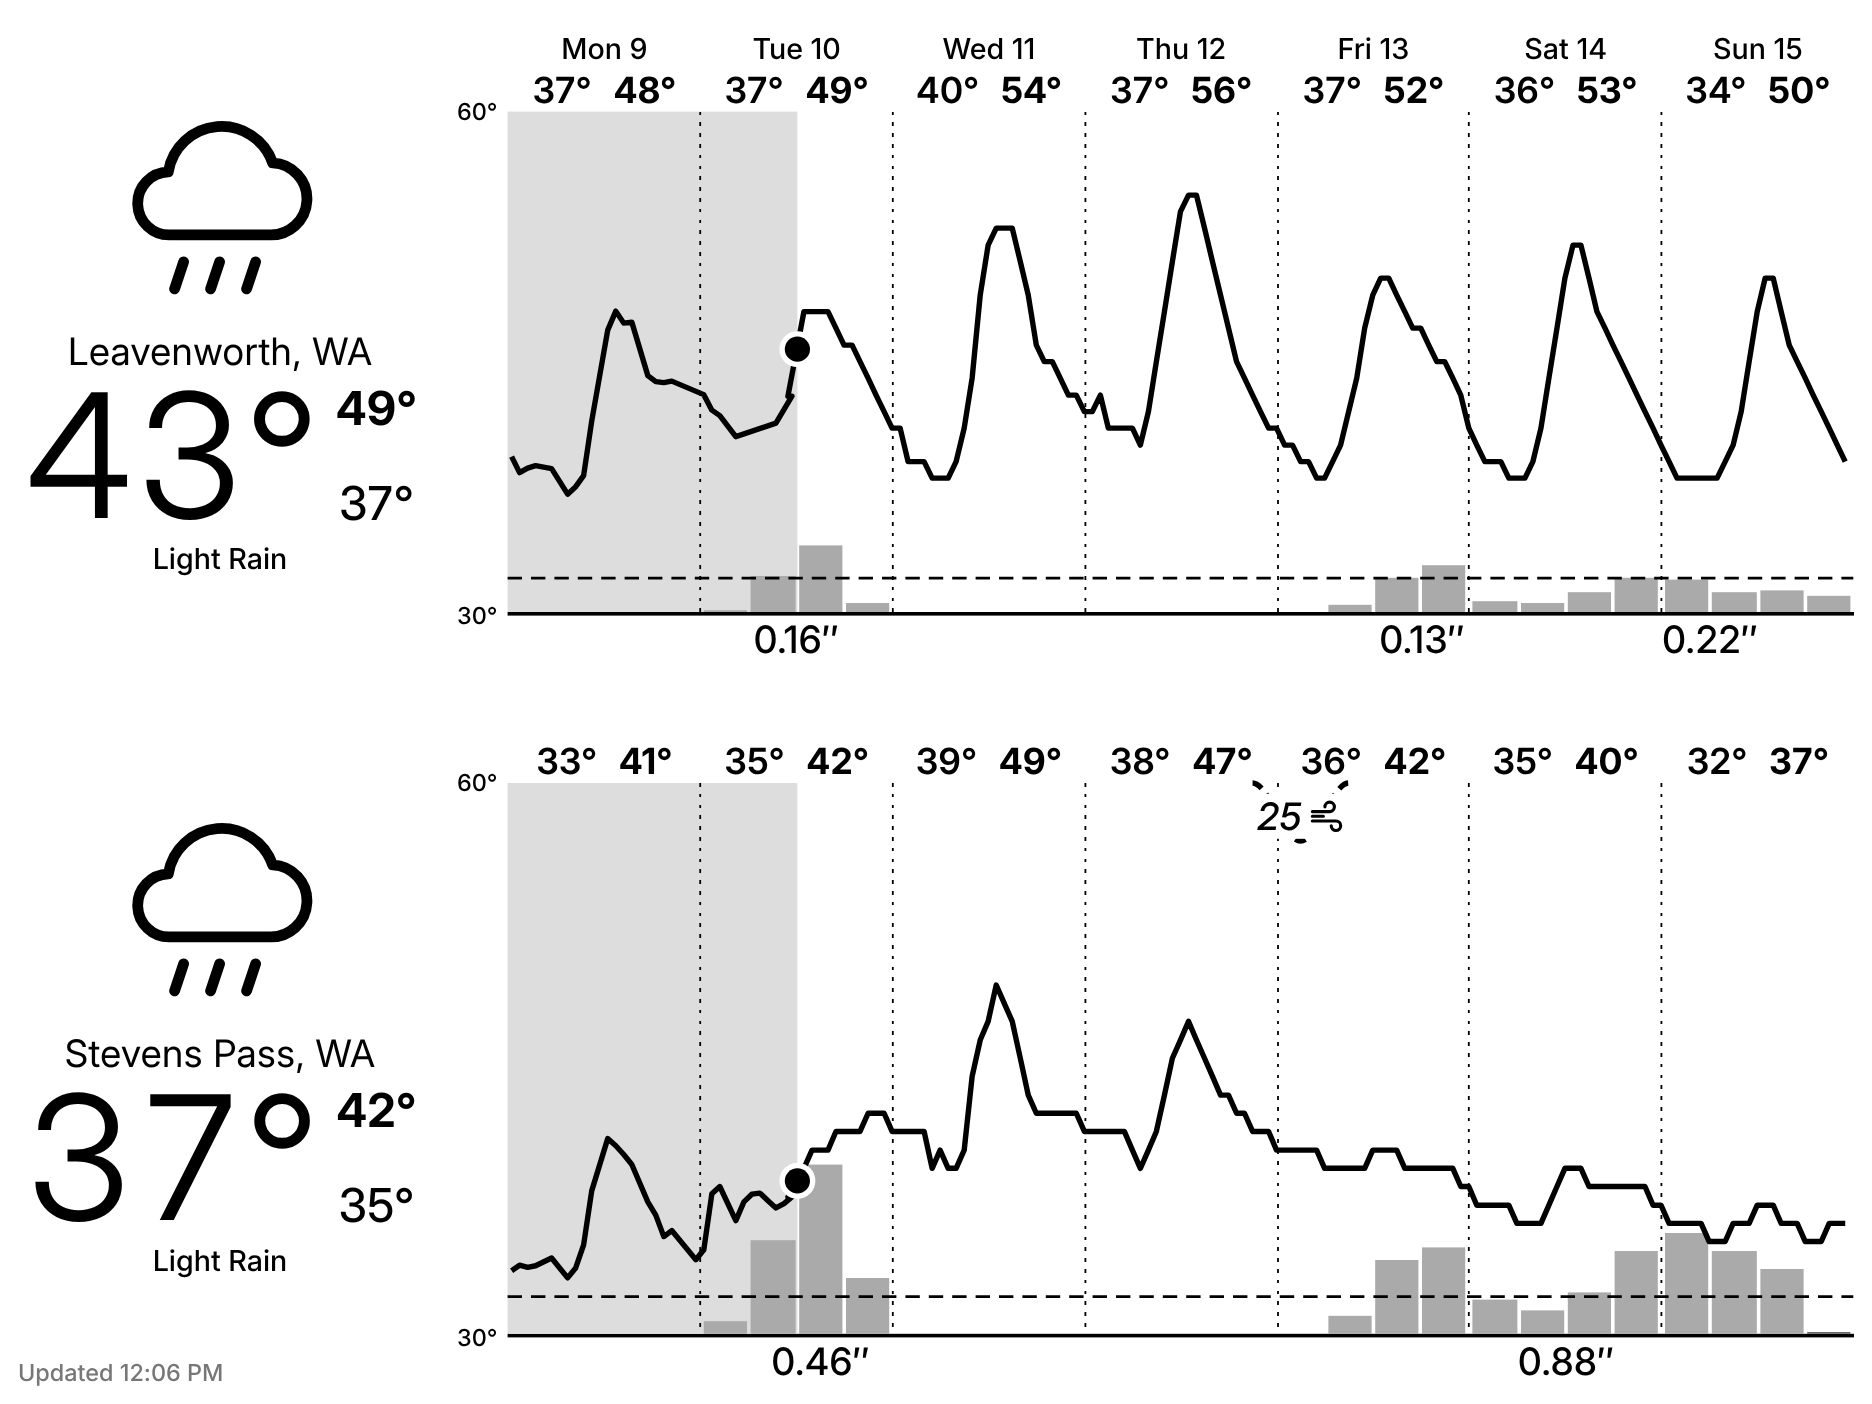
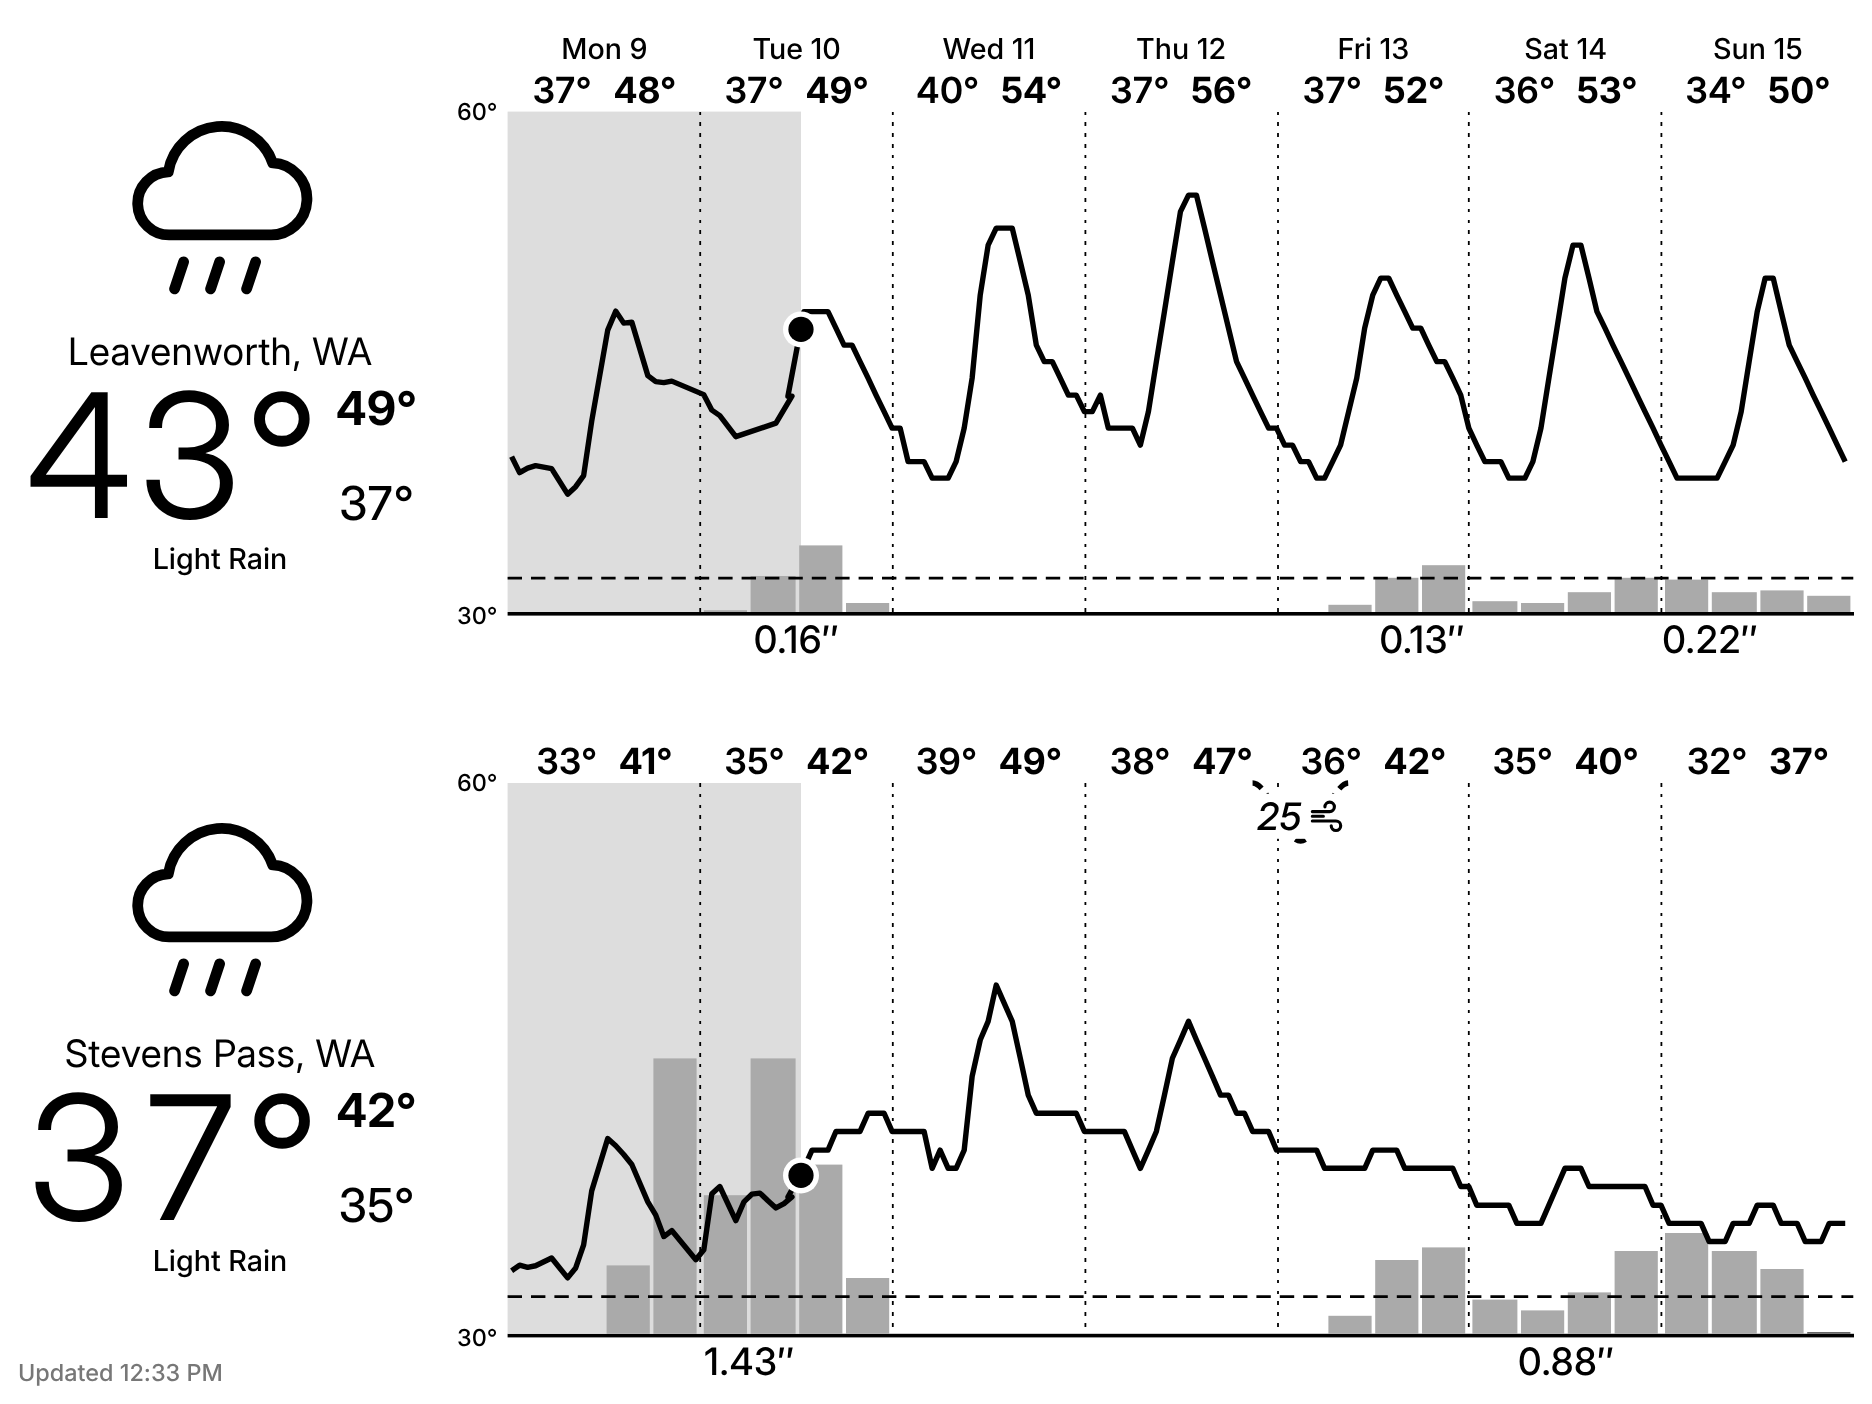
Measure rain and snow with NRCS SNOTEL
USDA's open AWDB service has hourly precipitation and snow depth for SNOTEL
sites, including Stevens Pass (site 791). Sites within 10 miles feed the
measured rain and snow bars and the fresh-snow totals; precipitation comes
from the water year's running total, with short gaps bridged.

Claude-Session: https://claude.ai/code/session_018zBtTfGxqR6ysBZYHYeVbJ

Changed region(s): [[0.3098, 0.735, 0.4647, 0.9801], [0.4028, 0.2144, 0.4338, 0.2756]]

diff --git a/server/forecast/glance_test.go b/server/forecast/glance_test.go
@@ -121,6 +121,10 @@ func fakeNWS(t *testing.T, dropPeriods int, withStations bool) *httptest.Server 
 				id = "LVN11" // the API's copy of every other station stopped on Oct 22
 			}
 			v = read("obs_" + id + ".json")
+		case r.URL.Path == "/snotel/stations":
+			v2 := []any{} // no SNOTEL station near Leavenworth
+			json.NewEncoder(w).Encode(v2)
+			return
 		case r.URL.Path == "/alerts/active":
 			v = map[string]any{"features": []any{map[string]any{"properties": map[string]any{
 				"event": "Winter Weather Advisory", "severity": "Moderate", "status": "Actual", "messageType": "Alert"}}}}
@@ -137,9 +141,9 @@ func fakeNWS(t *testing.T, dropPeriods int, withStations bool) *httptest.Server 
 func buildFromFixtures(t *testing.T, dropPeriods int, now time.Time) *Glance {
 	t.Helper()
 	srv := fakeNWS(t, dropPeriods, false)
-	oldNWS, oldForecast := nwsBase, forecastBase
-	nwsBase, forecastBase = srv.URL, srv.URL
-	t.Cleanup(func() { nwsBase, forecastBase = oldNWS, oldForecast })
+	oldNWS, oldForecast, oldSnotel := nwsBase, forecastBase, snotelBase
+	nwsBase, forecastBase, snotelBase = srv.URL, srv.URL, srv.URL+"/snotel"
+	t.Cleanup(func() { nwsBase, forecastBase, snotelBase = oldNWS, oldForecast, oldSnotel })
 
 	g, err := BuildGlance(context.Background(), newNWSClient(), Options{Lat: 47.5962, Lon: -120.6615, Units: "us", Days: 7}, now)
 	if err != nil {
@@ -271,9 +275,9 @@ func TestParseRequest(t *testing.T) {
 
 func TestHandler(t *testing.T) {
 	srv := fakeNWS(t, 0, false)
-	oldNWS, oldForecast := nwsBase, forecastBase
-	nwsBase, forecastBase = srv.URL, srv.URL
-	t.Cleanup(func() { nwsBase, forecastBase = oldNWS, oldForecast })
+	oldNWS, oldForecast, oldSnotel := nwsBase, forecastBase, snotelBase
+	nwsBase, forecastBase, snotelBase = srv.URL, srv.URL, srv.URL+"/snotel"
+	t.Cleanup(func() { nwsBase, forecastBase, snotelBase = oldNWS, oldForecast, oldSnotel })
 
 	rec := httptest.NewRecorder()
 	Handler(rec, httptest.NewRequest("GET", "/?lat_lon=47.5962,-120.6615&name=Home", nil))
@@ -392,9 +396,9 @@ func TestMapClickRejectsDistantElevation(t *testing.T) {
 
 func TestServeMultipleLocations(t *testing.T) {
 	srv := fakeNWS(t, 0, false)
-	oldNWS, oldForecast := nwsBase, forecastBase
-	nwsBase, forecastBase = srv.URL, srv.URL
-	t.Cleanup(func() { nwsBase, forecastBase = oldNWS, oldForecast })
+	oldNWS, oldForecast, oldSnotel := nwsBase, forecastBase, snotelBase
+	nwsBase, forecastBase, snotelBase = srv.URL, srv.URL, srv.URL+"/snotel"
+	t.Cleanup(func() { nwsBase, forecastBase, snotelBase = oldNWS, oldForecast, oldSnotel })
 
 	status, body := Serve(context.Background(), url.Values{"locations": {"Leavenworth, WA | 47.5962,-120.6615\nUp the hill | 47.7448,-121.0890"}})
 	var resp struct {
@@ -582,9 +586,9 @@ func TestMergeObserved(t *testing.T) {
 
 func TestBuildGlanceWithStations(t *testing.T) {
 	srv := fakeNWS(t, 0, true)
-	oldNWS, oldForecast := nwsBase, forecastBase
-	nwsBase, forecastBase = srv.URL, srv.URL
-	t.Cleanup(func() { nwsBase, forecastBase = oldNWS, oldForecast })
+	oldNWS, oldForecast, oldSnotel := nwsBase, forecastBase, snotelBase
+	nwsBase, forecastBase, snotelBase = srv.URL, srv.URL, srv.URL+"/snotel"
+	t.Cleanup(func() { nwsBase, forecastBase, snotelBase = oldNWS, oldForecast, oldSnotel })
 
 	now := time.Date(2026, 10, 25, 14, 45, 0, 0, time.UTC) // 7:45 AM PDT
 	g, err := BuildGlance(context.Background(), newNWSClient(), Options{Lat: 47.5962, Lon: -120.6615, Units: "us", Days: 7}, now)
@@ -859,5 +863,63 @@ func TestBuildDaysOvernight(t *testing.T) {
 	days = buildDays(periods, nil, loc, 7)
 	if len(days) != 3 || days[0].Label != "Sun 8" || days[1].Label != "Mon 9" {
 		t.Errorf("tonight days = %+v", days)
+	}
+}
+
+// A week of real hourly SNOTEL data from Stevens Pass (Nov 4-10, 2026). Midnight to midnight it
+// measured 0.6″ on Nov 6 and 1.0″ on Nov 8 (the running total went 4.3″ to 5.3″).
+func TestParseSnotel(t *testing.T) {
+	b, err := os.ReadFile("testdata/snotel_stevens_week.json")
+	if err != nil {
+		t.Fatal(err)
+	}
+	d := snotelData{}
+	if err := json.Unmarshal(b, &d); err != nil {
+		t.Fatal(err)
+	}
+	tz := time.FixedZone("PST", -8*3600)
+	s := stationSeries{}
+	parseSnotel(d, tz, &s)
+	if len(s.Precip) < 100 || len(s.Times) < 100 || len(s.Depth) == 0 {
+		t.Fatalf("parsed %d precip, %d temps, %d depths", len(s.Precip), len(s.Times), len(s.Depth))
+	}
+	day := func(dd int) float64 {
+		from := time.Date(2026, 11, dd, 0, 0, 0, 0, tz)
+		total := 0.0
+		for _, r := range s.Precip {
+			if r.T.After(from) && !r.T.After(from.Add(24*time.Hour)) {
+				total += r.V
+			}
+		}
+		return math.Round(total*10) / 10
+	}
+	if day(6) != 0.6 || day(8) != 1.0 {
+		t.Errorf("Nov 6 = %.1f″, Nov 8 = %.1f″; want 0.6 and 1.0", day(6), day(8))
+	}
+	// A missing hour doesn't lose its rain: drop Nov 8's 1 AM reading (4.3″ -> 4.5″ at 1 AM).
+	for _, st := range d {
+		for i := range st.Data {
+			vals := st.Data[i].Values
+			for k := range vals {
+				if vals[k].Date == "2026-11-08 01:00" {
+					st.Data[i].Values = append(vals[:k:k], vals[k+1:]...)
+					break
+				}
+			}
+		}
+	}
+	s = stationSeries{}
+	parseSnotel(d, tz, &s)
+	if day(8) != 1.0 {
+		t.Errorf("Nov 8 with a missing hour = %.1f″", day(8))
+	}
+	// As a gauge it feeds the measured rain: Nov 6's afternoon block.
+	o := newObserved([]stationSeries{s}, math.NaN())
+	if o == nil || len(o.gauges) != 1 {
+		t.Fatalf("observed = %+v", o)
+	}
+	noon := time.Date(2026, 11, 6, 12, 0, 0, 0, tz)
+	if r := o.rain(noon, noon.Add(6*time.Hour)); r < 0.3 {
+		t.Errorf("Nov 6 noon-6 PM rain = %.2f", r)
 	}
 }

diff --git a/server/forecast/snotel.go b/server/forecast/snotel.go
@@ -1,0 +1,151 @@
+package forecast
+
+import (
+	"context"
+	"fmt"
+	"math"
+	"net/url"
+	"sort"
+	"sync"
+	"time"
+)
+
+// NRCS SNOTEL stations measure precipitation and snow depth hourly, through USDA's open AWDB
+// service (no key). Stevens Pass has one (site 791, 3,940 ft) beside NWAC's Schmidt Haus station;
+// api.weather.gov carries temperatures but no precipitation or depth for that area, so SNOTEL
+// supplies the measured rain and snow bars and the fresh-snow totals.
+var snotelBase = "https://wcc.sc.egov.usda.gov/awdbRestApi/services/v1"
+
+const maxSnotelGap = 6 * time.Hour
+
+type snotelStation struct {
+	Triplet   string  `json:"stationTriplet"`
+	Name      string  `json:"name"`
+	Elevation float64 `json:"elevation"` // ft
+	Latitude  float64 `json:"latitude"`
+	Longitude float64 `json:"longitude"`
+	TimeZone  float64 `json:"dataTimeZone"` // hours from UTC; the data's timestamps are in this fixed offset
+}
+
+type cachedSnotel struct {
+	at   time.Time
+	list []snotelStation
+}
+
+type snotelData []struct {
+	Triplet string `json:"stationTriplet"`
+	Data    []struct {
+		StationElement struct {
+			ElementCode string `json:"elementCode"`
+		} `json:"stationElement"`
+		Values []struct {
+			Date  string   `json:"date"` // "2026-11-10 08:00", station standard time
+			Value *float64 `json:"value"`
+		} `json:"values"`
+	} `json:"data"`
+}
+
+// snotelStations lists a state's active SNOTEL stations, kept for a day.
+func (c *nwsClient) snotelStations(ctx context.Context, state string) ([]snotelStation, error) {
+	c.mu.Lock()
+	cached, ok := c.snotel[state]
+	c.mu.Unlock()
+	if ok && time.Since(cached.at) < stationListMaxAge {
+		return cached.list, nil
+	}
+	list := []snotelStation{}
+	u := snotelBase + "/stations?stationTriplets=" + url.QueryEscape("*:"+state+":SNTL") +
+		"&activeOnly=true&returnForecastPointMetadata=false&returnReservoirMetadata=false&returnStationElements=false"
+	if err := c.getAs(ctx, u, "application/json", &list); err != nil {
+		return nil, err
+	}
+	c.mu.Lock()
+	c.snotel[state] = cachedSnotel{time.Now(), list}
+	c.mu.Unlock()
+	return list, nil
+}
+
+// snotelSeriesNear fetches hourly precipitation, snow depth and temperature since `since` from the
+// SNOTEL stations within stationRadiusKm of a point.
+func (c *nwsClient) snotelSeriesNear(ctx context.Context, lat, lon float64, state string, since, now time.Time) ([]stationSeries, error) {
+	if state == "" {
+		return nil, fmt.Errorf("no state for this point")
+	}
+	all, err := c.snotelStations(ctx, state)
+	if err != nil {
+		return nil, err
+	}
+	type near struct {
+		st stationSeries
+		tz *time.Location
+		id string
+	}
+	found := []near{}
+	for _, s := range all {
+		if d := distanceKm(lat, lon, s.Latitude, s.Longitude); d <= stationRadiusKm {
+			found = append(found, near{
+				stationSeries{ID: s.Triplet, Name: s.Name, ElevationFt: s.Elevation, DistanceKm: d},
+				time.FixedZone("", int(s.TimeZone*3600)), s.Triplet,
+			})
+		}
+	}
+	sort.SliceStable(found, func(i, j int) bool { return found[i].st.DistanceKm < found[j].st.DistanceKm })
+
+	var wg sync.WaitGroup
+	for i := range found {
+		wg.Add(1)
+		go func(n *near) {
+			defer wg.Done()
+			// The service takes station-local dates; an hour of slack covers the hour before since.
+			from, to := since.Add(-time.Hour).In(n.tz), now.Add(time.Hour).In(n.tz)
+			u := snotelBase + "/data?stationTriplets=" + url.QueryEscape(n.id) +
+				"&elements=PREC,SNWD,TOBS&duration=HOURLY" +
+				"&beginDate=" + url.QueryEscape(from.Format("2006-01-02 15:04")) +
+				"&endDate=" + url.QueryEscape(to.Format("2006-01-02 15:04"))
+			d := snotelData{}
+			if err := c.getAs(ctx, u, "application/json", &d); err != nil {
+				return
+			}
+			parseSnotel(d, n.tz, &n.st)
+		}(&found[i])
+	}
+	wg.Wait()
+
+	out := make([]stationSeries, len(found))
+	for i, n := range found {
+		out[i] = n.st
+	}
+	return out, nil
+}
+
+// parseSnotel fills a station's series from an AWDB response. PREC is the water year's running
+// total (0.1″ resolution), so each reading's precipitation is the rise since the one before. Across
+// a gap of a few missing hours the rise counts at the reading after it rather than being lost; a
+// drop (the October reset, or a gauge correction) counts as none.
+func parseSnotel(d snotelData, tz *time.Location, s *stationSeries) {
+	for _, st := range d {
+		for _, el := range st.Data {
+			prevT, prevV := time.Time{}, math.NaN()
+			for _, v := range el.Values {
+				if v.Value == nil {
+					continue
+				}
+				t, err := time.ParseInLocation("2006-01-02 15:04", v.Date, tz)
+				if err != nil {
+					continue
+				}
+				switch el.StationElement.ElementCode {
+				case "PREC":
+					if gap := t.Sub(prevT); gap > 0 && gap <= maxSnotelGap {
+						s.Precip = append(s.Precip, reading{t, math.Max(0, math.Round((*v.Value-prevV)*100)/100)})
+					}
+					prevT, prevV = t, *v.Value
+				case "SNWD":
+					s.Depth = append(s.Depth, reading{t, *v.Value})
+				case "TOBS":
+					s.Times, s.TempF = append(s.Times, t), append(s.TempF, *v.Value)
+				}
+			}
+		}
+	}
+}

diff --git a/server/forecast/glance.go b/server/forecast/glance.go
@@ -86,7 +86,7 @@ func BuildGlance(ctx context.Context, nws *nwsClient, opts Options, now time.Tim
 		alerts             []Alert
 		grid               *GridData
 		periodsErr, hrsErr error
-		stations           []stationSeries
+		stations, snotel   []stationSeries
 	)
 	// Station readings since yesterday's local midnight (plus an hour, for the first hourly
 	// average), and at least the 48 hours the fresh-snow total covers.
@@ -95,7 +95,7 @@ func BuildGlance(ctx context.Context, nws *nwsClient, opts Options, now time.Tim
 		l := now.In(tz)
 		since = minTime(since, time.Date(l.Year(), l.Month(), l.Day()-1, 0, 0, 0, 0, tz).Add(-time.Hour))
 	}
-	wg.Add(5)
+	wg.Add(6)
 	go func() { defer wg.Done(); periods, periodsErr = nws.Forecast(ctx, pp.Forecast, opts.Units) }()
 	go func() { defer wg.Done(); hourly, hrsErr = nws.Forecast(ctx, pp.ForecastHourly, opts.Units) }()
 	go func() { defer wg.Done(); alerts, _ = nws.Alerts(ctx, opts.Lat, opts.Lon) }()
@@ -103,6 +103,10 @@ func BuildGlance(ctx context.Context, nws *nwsClient, opts Options, now time.Tim
 	go func() {
 		defer wg.Done()
 		stations, _ = nws.stationSeriesNear(ctx, opts.Lat, opts.Lon, pp.RelativeLocation.Properties.State, since)
+	}()
+	go func() {
+		defer wg.Done()
+		snotel, _ = nws.snotelSeriesNear(ctx, opts.Lat, opts.Lon, pp.RelativeLocation.Properties.State, since, now)
 	}()
 	wg.Wait()
 
@@ -168,7 +172,8 @@ func BuildGlance(ctx context.Context, nws *nwsClient, opts Options, now time.Tim
 	if station != nil && len(days) > back {
 		includeObserved(&days[back], station, localNow, opts.Units)
 	}
-	seen := newObserved(stations, pointElevM)
+	// Measured snow and rain come from SNOTEL (api.weather.gov's stations have neither); wind from both.
+	seen := newObserved(append(append([]stationSeries{}, stations...), snotel...), pointElevM)
 
 	nowIcon, _ := classify(hour.ShortForecast, hour.Pop())
 	if !hour.IsDaytime {

diff --git a/server/forecast/nws.go b/server/forecast/nws.go
@@ -96,19 +96,25 @@ type nwsClient struct {
 	mu       sync.Mutex
 	points   map[string]*Points
 	stations map[string]cachedStations // by state
+	snotel   map[string]cachedSnotel   // by state
 }
 
 func newNWSClient() *nwsClient {
-	return &nwsClient{http: &http.Client{Timeout: 8 * time.Second}, points: map[string]*Points{}, stations: map[string]cachedStations{}}
+	return &nwsClient{http: &http.Client{Timeout: 8 * time.Second}, points: map[string]*Points{}, stations: map[string]cachedStations{}, snotel: map[string]cachedSnotel{}}
 }
 
 func (c *nwsClient) get(ctx context.Context, url string, v any) error {
+	return c.getAs(ctx, url, "application/geo+json", v)
+}
+
+// getAs fetches JSON with the given Accept header (USDA's AWDB service refuses geo+json).
+func (c *nwsClient) getAs(ctx context.Context, url, accept string, v any) error {
 	req, err := http.NewRequestWithContext(ctx, http.MethodGet, url, nil)
 	if err != nil {
 		return err
 	}
 	req.Header.Set("User-Agent", userAgent)
-	req.Header.Set("Accept", "application/geo+json")
+	req.Header.Set("Accept", accept)
 
 	var lastErr error
 	for attempt := 0; attempt < 2; attempt++ {

diff --git a/README.md b/README.md
@@ -16,7 +16,7 @@ one above the other. For each location you get:
 - with station data (see below), the chart starts yesterday: the shaded past shows measured temperatures and
   wind (and measured snow and rain where a source has them), so you can tell what actually happened from what is
   forecast
-- at places with snow-depth sensors, the new snow measured in the last 24 and 48 hours (e.g. "❄ 4″ 24h · 9″
+- at places with a SNOTEL snow-depth sensor nearby, the new snow measured in the last 24 and 48 hours (e.g. "❄ 4″ 24h · 9″
   48h"), the number that says whether the skiing is good
 
 Defaults to Leavenworth, WA and Stevens Pass, WA. Shown on a TRMNL X (1872×1404, 16 grays):
@@ -69,10 +69,13 @@ A station whose elevation differs from the forecast point's by more than 300 m (
 this, Stevens Pass would show Skykomish's valley reading (SKKW1, 2,028 ft) instead of conditions at about 4,900 ft.
 
 Measured wind gusts are the median of each nearby station's peak in each 6-hour block. api.weather.gov has no
-precipitation or snow depth for these stations, so for now the past blocks show the forecast's rain and snow, and
-the fresh-snow line is off. When a source with gauges and depth sensors is added (NWAC's Stevens Pass stations),
-this is how they're used: measured snow and rain come from all the stations near the location's elevation.
-Snowfall isn't measured directly
+precipitation or snow depth for these stations, so measured rain and snow come from NRCS SNOTEL stations within
+10 miles, through USDA's open [AWDB web service](https://wcc.sc.egov.usda.gov/awdbRestApi/swagger-ui/index.html)
+(no key). Stevens Pass has one (site 791, 3,940 ft); Leavenworth has none, so its past blocks show the forecast's
+amounts where the forecast still covers them (NWS forecasts start when they're issued, so yesterday has none).
+SNOTEL reports precipitation as a running total in tenths of an inch, so light amounts show in 0.1″ steps.
+
+Measured snow and rain come from all the stations near the location's elevation. Snowfall isn't measured directly
 (the stations' "new snow" readings are unusable), so new snow is the rise in snow depth: each station's depth is
 cleaned of spikes, impossible values and sensor jumps and smoothed over 3 hours; rises only count while the station
 is at 35°F or colder (sun warms depth sensors too); stations whose depth swings more than an inch hour to hour are
